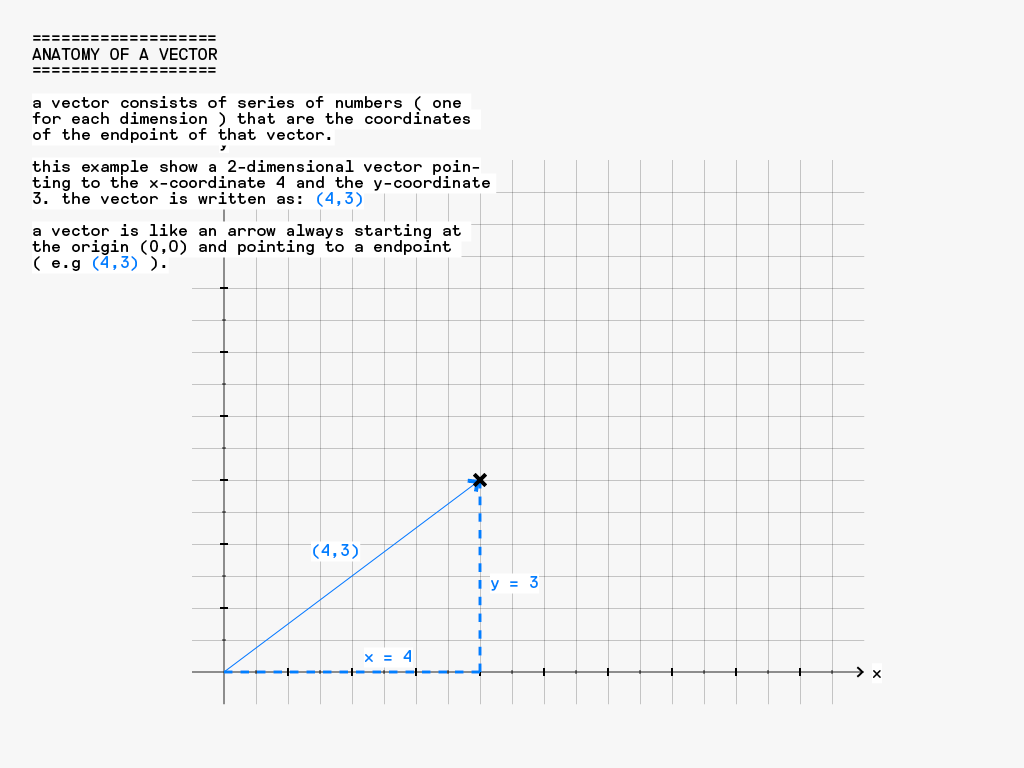
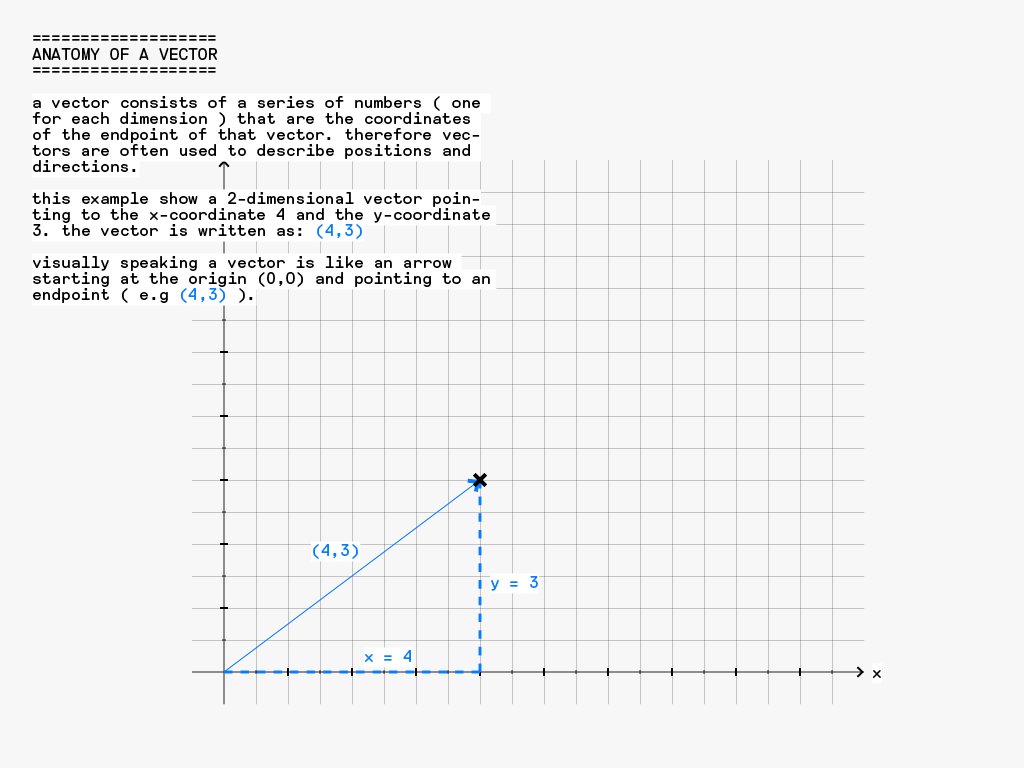
updated README + vector slides

Changed region(s): [[0.0312, 0.125, 0.5, 0.4062]]

diff --git a/README.md b/README.md
@@ -92,3 +92,5 @@ although explaining vectors ( and linear algebra ) is beyond the scope of this l
 ![](./resources/teilchen-tutorial-vectors-12.png)
 
 ![](./resources/teilchen-tutorial-vectors-13.png)
+
+![](./resources/teilchen-tutorial-vectors-14.png)
